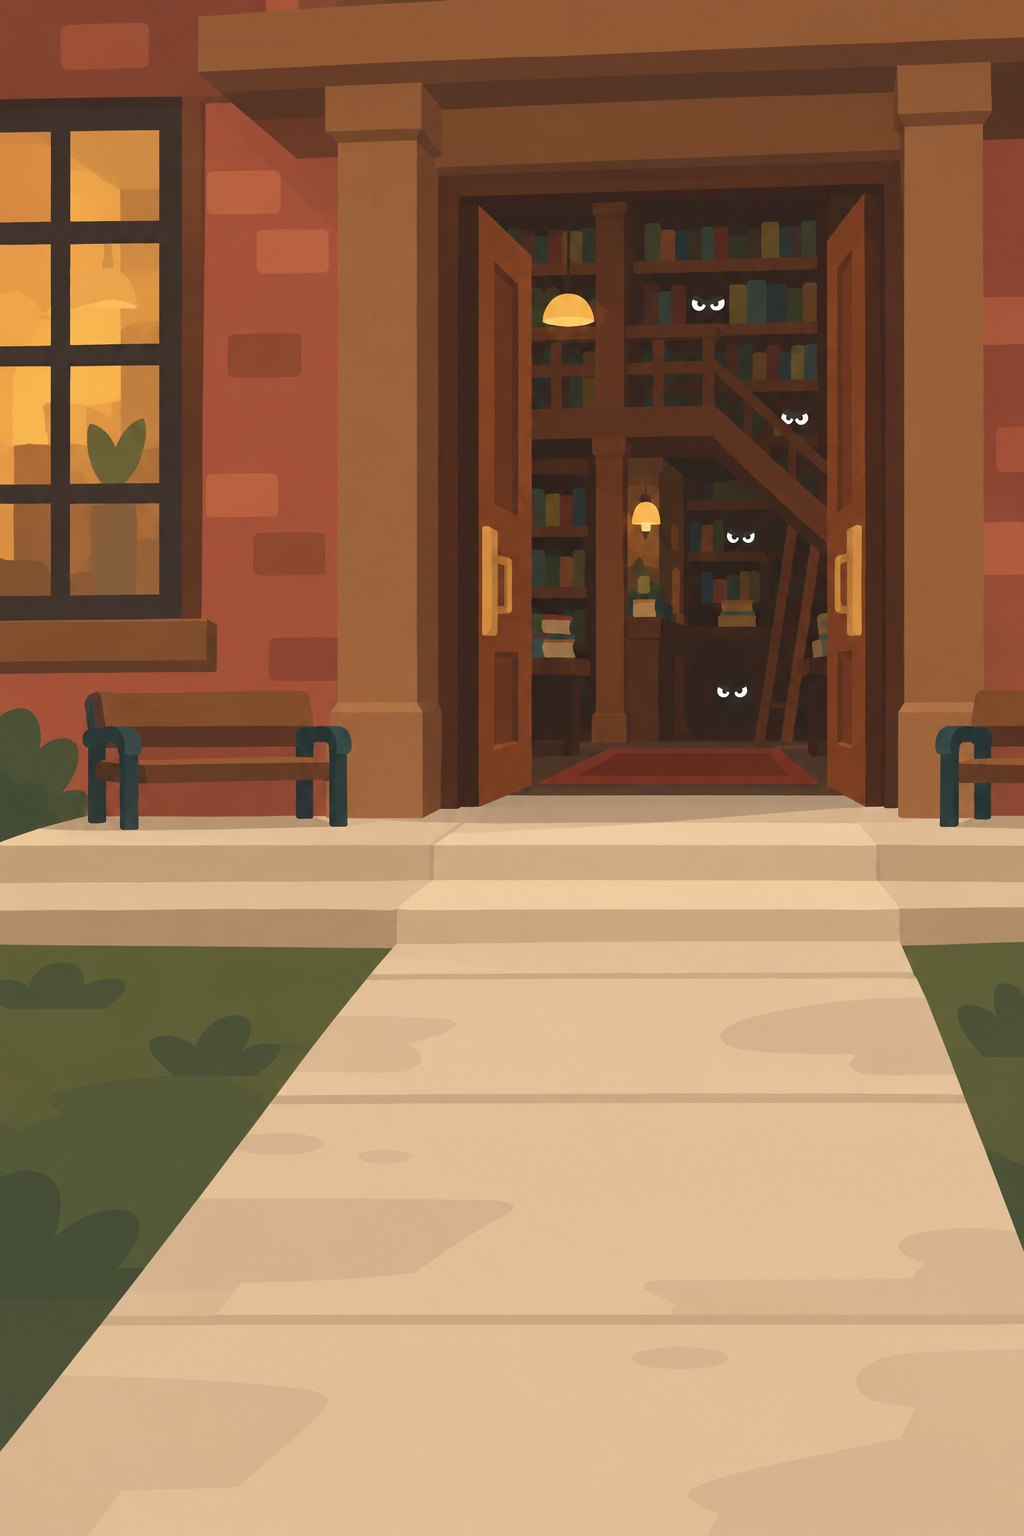
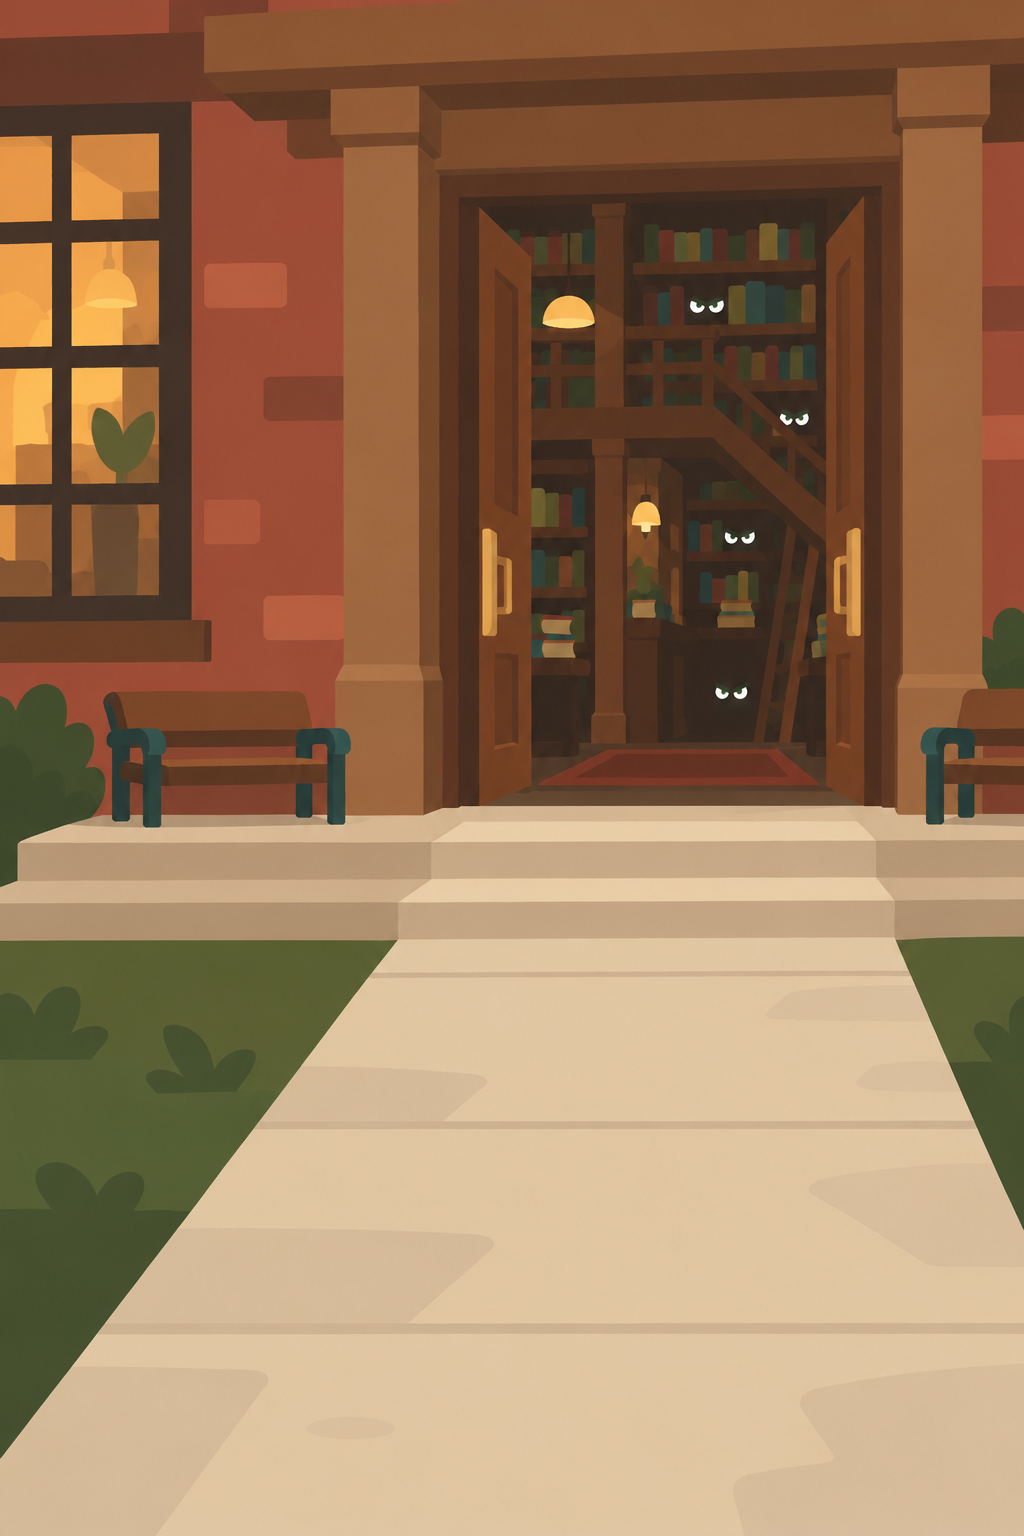
main menu art tweak

diff --git a/src/components/MainMenuArtwork.tsx b/src/components/MainMenuArtwork.tsx
@@ -7,6 +7,7 @@ const MENU_LAD = require('../../assets/images/mainmenulad.png');
 const MENU_ARM = require('../../assets/images/mainmenuladarm.png');
 const LEAVES = require('../../assets/images/leaves.png');
 const ART_SIZE = { width: 1350, height: 3000 };
+const MENU_ART_ASPECT = 2 / 3;
 const ARM_SIZE = { width: 2600, height: 1200 };
 const PAGE_ASPECT = 9 / 20;
 const VIGNETTE_STEPS = 20;
@@ -34,6 +35,8 @@ export default function MainMenuArtwork({
   const angle = useRef(new Animated.Value(0)).current;
   const pageWidth = Math.min(screenSize.width, screenSize.height * PAGE_ASPECT);
   const pageHeight = pageWidth / PAGE_ASPECT;
+  const menuArtWidth = pageHeight * MENU_ART_ASPECT;
+  const menuArtLeft = (pageWidth - menuArtWidth) / 2 - pageWidth * 0.07;
   const scale = pageWidth / ART_SIZE.width;
   const leafWidth = pageWidth * 0.56;
   const leafHeight = leafWidth * (1024 / 1536);
@@ -78,7 +81,19 @@ export default function MainMenuArtwork({
           transform: [{ scale: artScale }],
         }}
       >
-        <Image source={MENU_ART} resizeMode="stretch" style={styles.pageImage} />
+        <View style={[StyleSheet.absoluteFill, { overflow: 'hidden' }]}>
+          <Image
+            source={MENU_ART}
+            resizeMode="stretch"
+            style={{
+              position: 'absolute',
+              left: menuArtLeft,
+              top: 0,
+              width: menuArtWidth,
+              height: pageHeight,
+            }}
+          />
+        </View>
         <Animated.Image
           source={MENU_ARM}
           resizeMode="contain"
